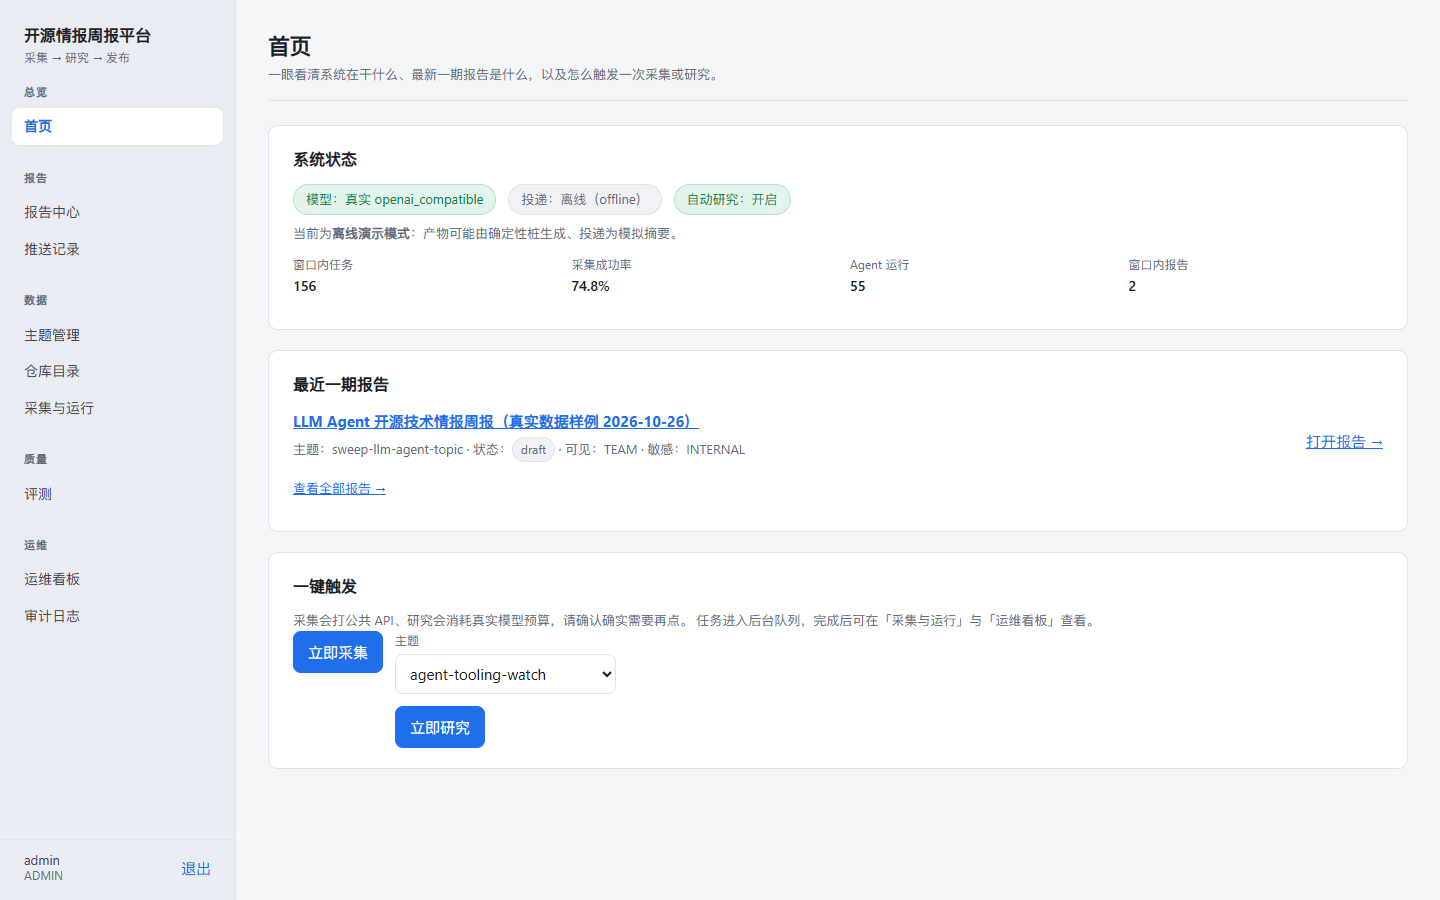
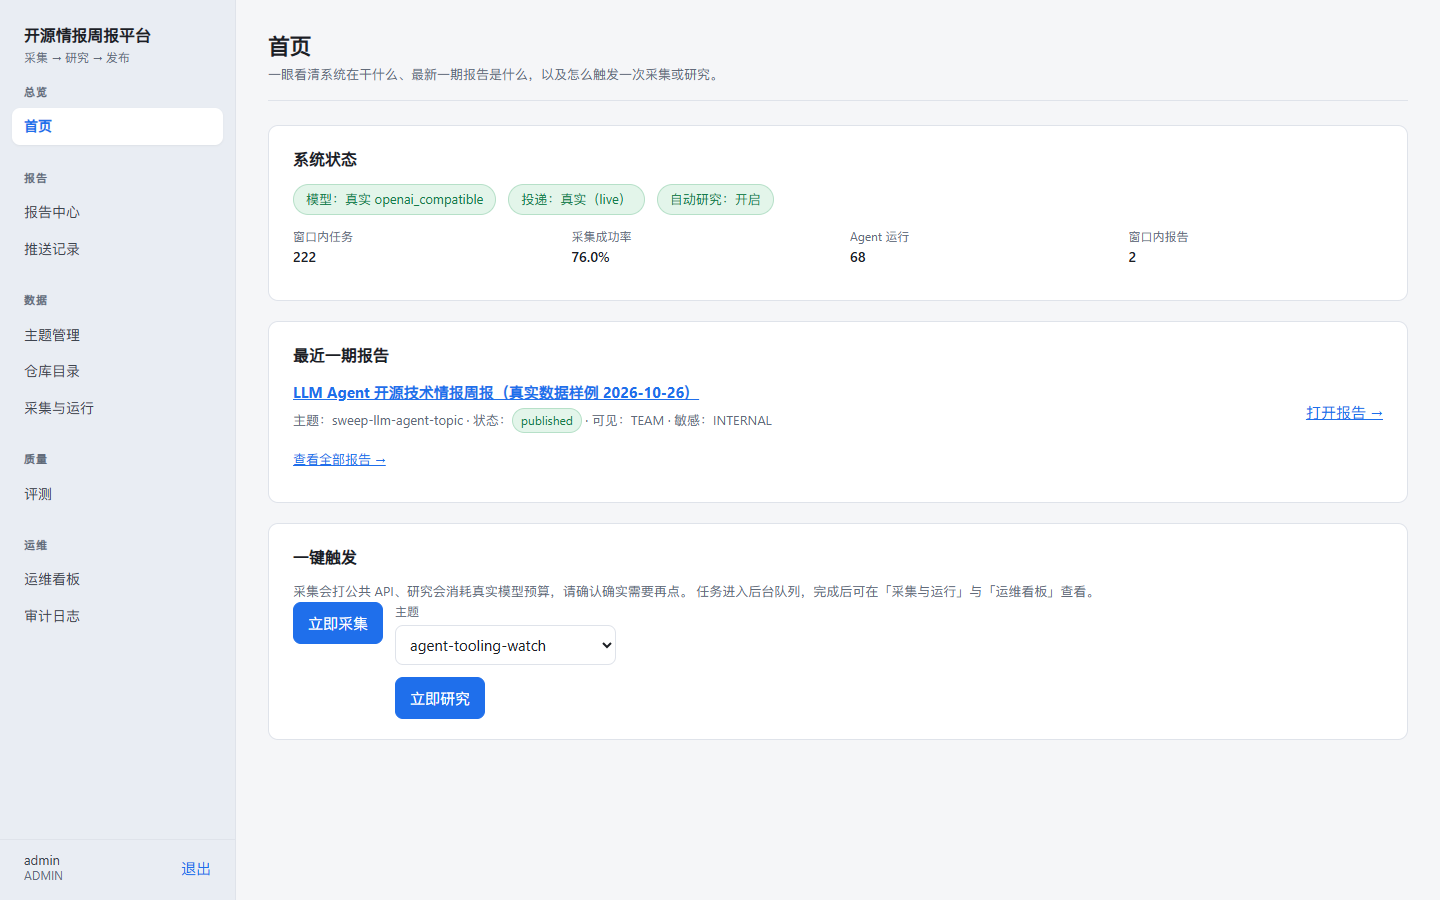
docs(F): refresh the screenshots after the first live mail delivery
- pushes.png now shows the live delivery mode and the SMTP receipt row
- README states what real delivery looks like on the wire (SMTP 587 +
  STARTTLS, HMAC for webhooks, one row per attempt, no exception on
  transport failure)

diff --git a/README.md b/README.md
@@ -137,6 +137,10 @@ docker compose --env-file .env -f infra/docker-compose.yml exec -T api python /a
 
 每个净增都是「窗口末快照 stars − 首快照 stars」，可直接核对。
 
+### 真实投递
+
+发布后按白名单投递到真实收件箱：`PUSH_DELIVERY=live` + SMTP（587 + STARTTLS）+ HMAC 签名（Webhook 通道）。每次投递落一行 `report_pushes`，成功记 `smtp:<host>:<port>` / `http:200`，失败记 `failed` + `error_code`（传输失败不抛异常，而是一行可重试的记录）。同一报告同一版本同一目标只发一次，重复请求即重试。
+
 ### 5 变体消融评测（真实模型 `deepseek-chat`）
 
 对同一数据集跑 5 个变体，量化每个组件的增益（完整报告见 [docs/ablation-report-c1.md](docs/ablation-report-c1.md)）：
